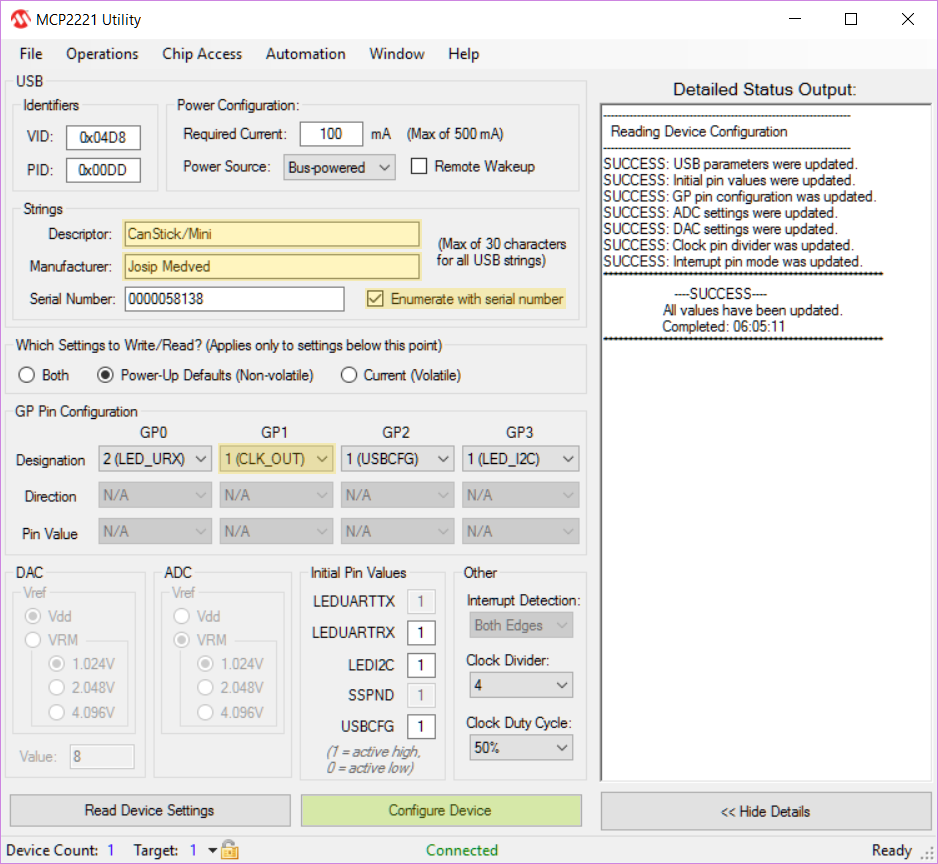
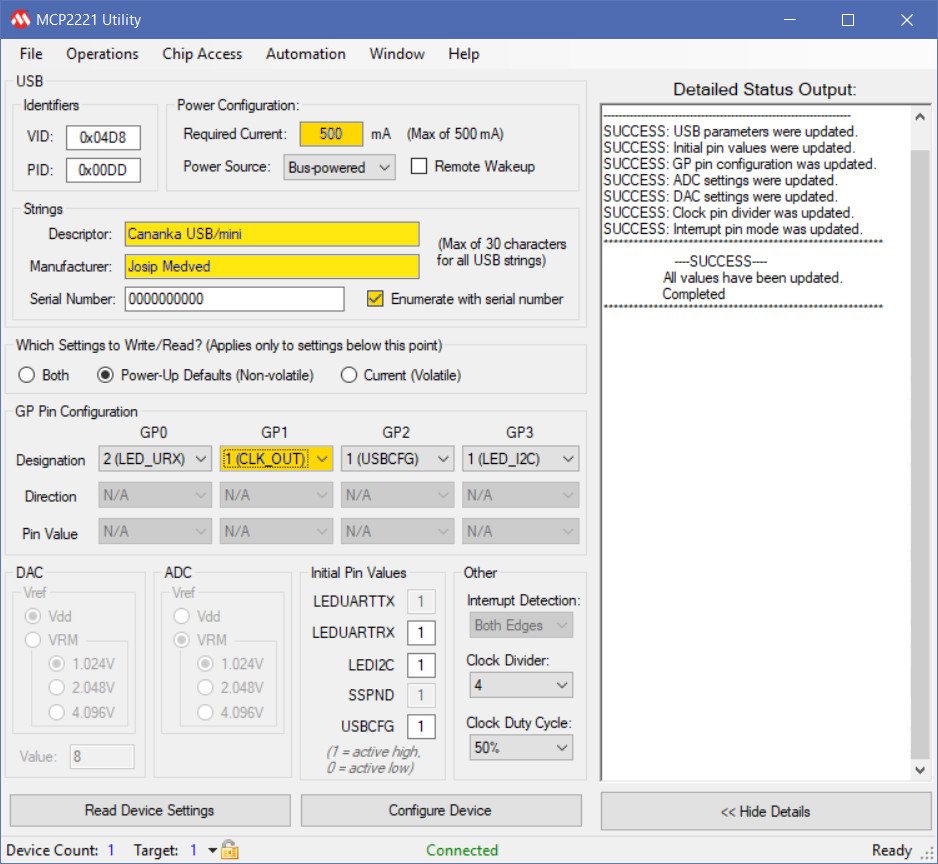
Updated USBmini to use MCP2221A instead of MCP2221.

diff --git a/USBmini/Hardware/Board/Cananka USBmini [C].md b/USBmini/Hardware/Board/Cananka USBmini [C].md
@@ -20,7 +20,7 @@
 |  3 | R 330 0.125W (0805)              | R5-R7   | RMCF0805FT330RCT-ND        |                                 |
 |  3 | R 1K 0.125W (0805)               | R8-R10  | RMCF0805FT1K00CT-ND        |                                 |
 |  3 | R 10K 0.125W (0805)              | R11-R13 | RMCF0805JT10K0CT-ND        |                                 |
-|  1 | U MCP2221 (TSSOP-14)             | U1      | MCP2221-I/ST               |                                 |
+|  1 | U MCP2221A (TSSOP-14)            | U1      | MCP2221A-I/ST-ND           |                                 |
 |  1 | U PIC18F25K80 (SSOP-28)          | U2      | PIC18F25K80-I/SS-ND        |                                 |
 |  1 | U MCP2561 (SOIC-8)               | U3      | MCP2561-E/SN-ND            | 568-10289-1-ND  MCP2562-E/SN-ND |
 |  1 | P MC 1,5/ 4-ST-3,81              |         | 277-1163-ND                | ED2877-ND                       |
@@ -35,8 +35,9 @@ that can happen with different ground potentials.
 
 #### Configuration ####
 
-In order to configure CanStick/Mini, one has to use MCP2221 Utility application
-(download from Microchip). In configuration, one MUST change GP1 designation to
-CLK_OUT. Optionally one can setup Descriptor ("CanStick/Mini"), Manufacturer
-("Josip Medved"), and check Enumerate with serial number. Later will allow you
-to have separate COM port number for each of devices.
+In order to configure Cananka USB/mini, one has to use MCP2221 Utility
+application (download from Microchip). In configuration, one MUST change GP1
+designation to CLK_OUT. Optionally one can setup Required Current (500 mA),
+Descriptor ("Cananka USB/mini"), Manufacturer ("Josip Medved"), and check
+Enumerate with serial number. Later will allow you to have a separate serial
+port number for each of devices.
